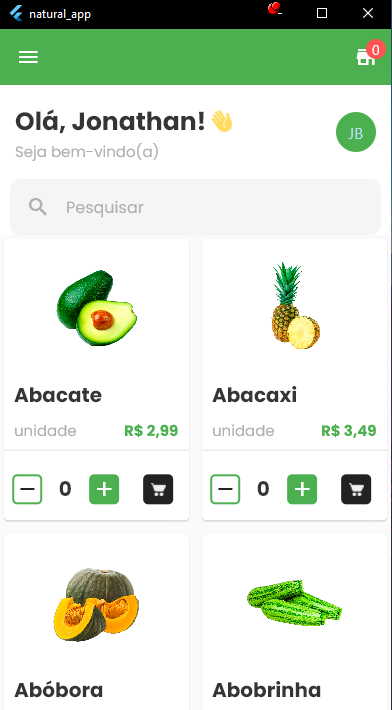
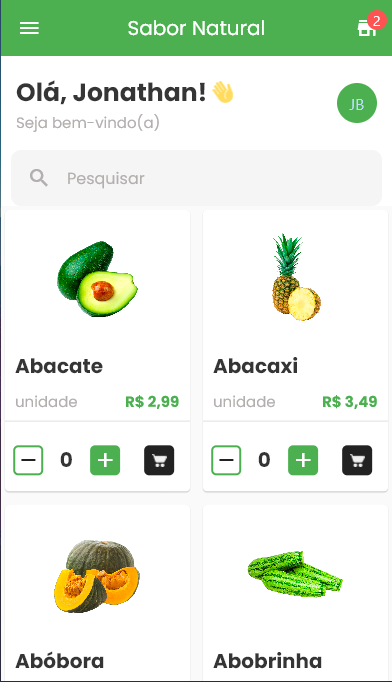
readme v2

diff --git a/lib/src/features/home/screen/home_screen.dart b/lib/src/features/home/screen/home_screen.dart
@@ -1,4 +1,5 @@
 import 'package:flutter/material.dart';
+import 'package:google_fonts/google_fonts.dart';
 import 'package:natural_app/init.dart';
 import 'package:natural_app/src/features/home/state/home_state.dart';
 import 'package:natural_app/src/features/home/store/home_store.dart';
@@ -78,6 +79,13 @@ class _HomeScreenState extends State<HomeScreen> {
           return Scaffold(
             appBar: AppBar(
               elevation: 0,
+              title: Text(
+                'Sabor Natural',
+                style: GoogleFonts.poppins(
+                  color: Colors.white,
+                ),
+              ),
+              centerTitle: true,
               leading: IconButton(
                 onPressed: () {},
                 icon: const Icon(

diff --git a/lib/src/features/cart/screen/cart_screen.dart b/lib/src/features/cart/screen/cart_screen.dart
@@ -1,4 +1,5 @@
 import 'package:flutter/material.dart';
+import 'package:google_fonts/google_fonts.dart';
 import 'package:natural_app/init.dart';
 import 'package:natural_app/src/features/cart/state/cart_state.dart';
 import 'package:natural_app/src/features/cart/store/cart_store.dart';
@@ -28,6 +29,13 @@ class _CartScreenState extends State<CartScreen> {
       backgroundColor: AppColors.backgroundColorSearchBar,
       appBar: AppBar(
         elevation: 0,
+        title: Text(
+          'Carrinho',
+          style: GoogleFonts.poppins(
+            color: Colors.white,
+          ),
+        ),
+        centerTitle: true,
         backgroundColor: AppColors.primaryColor,
         actions: [
           IconButton(
